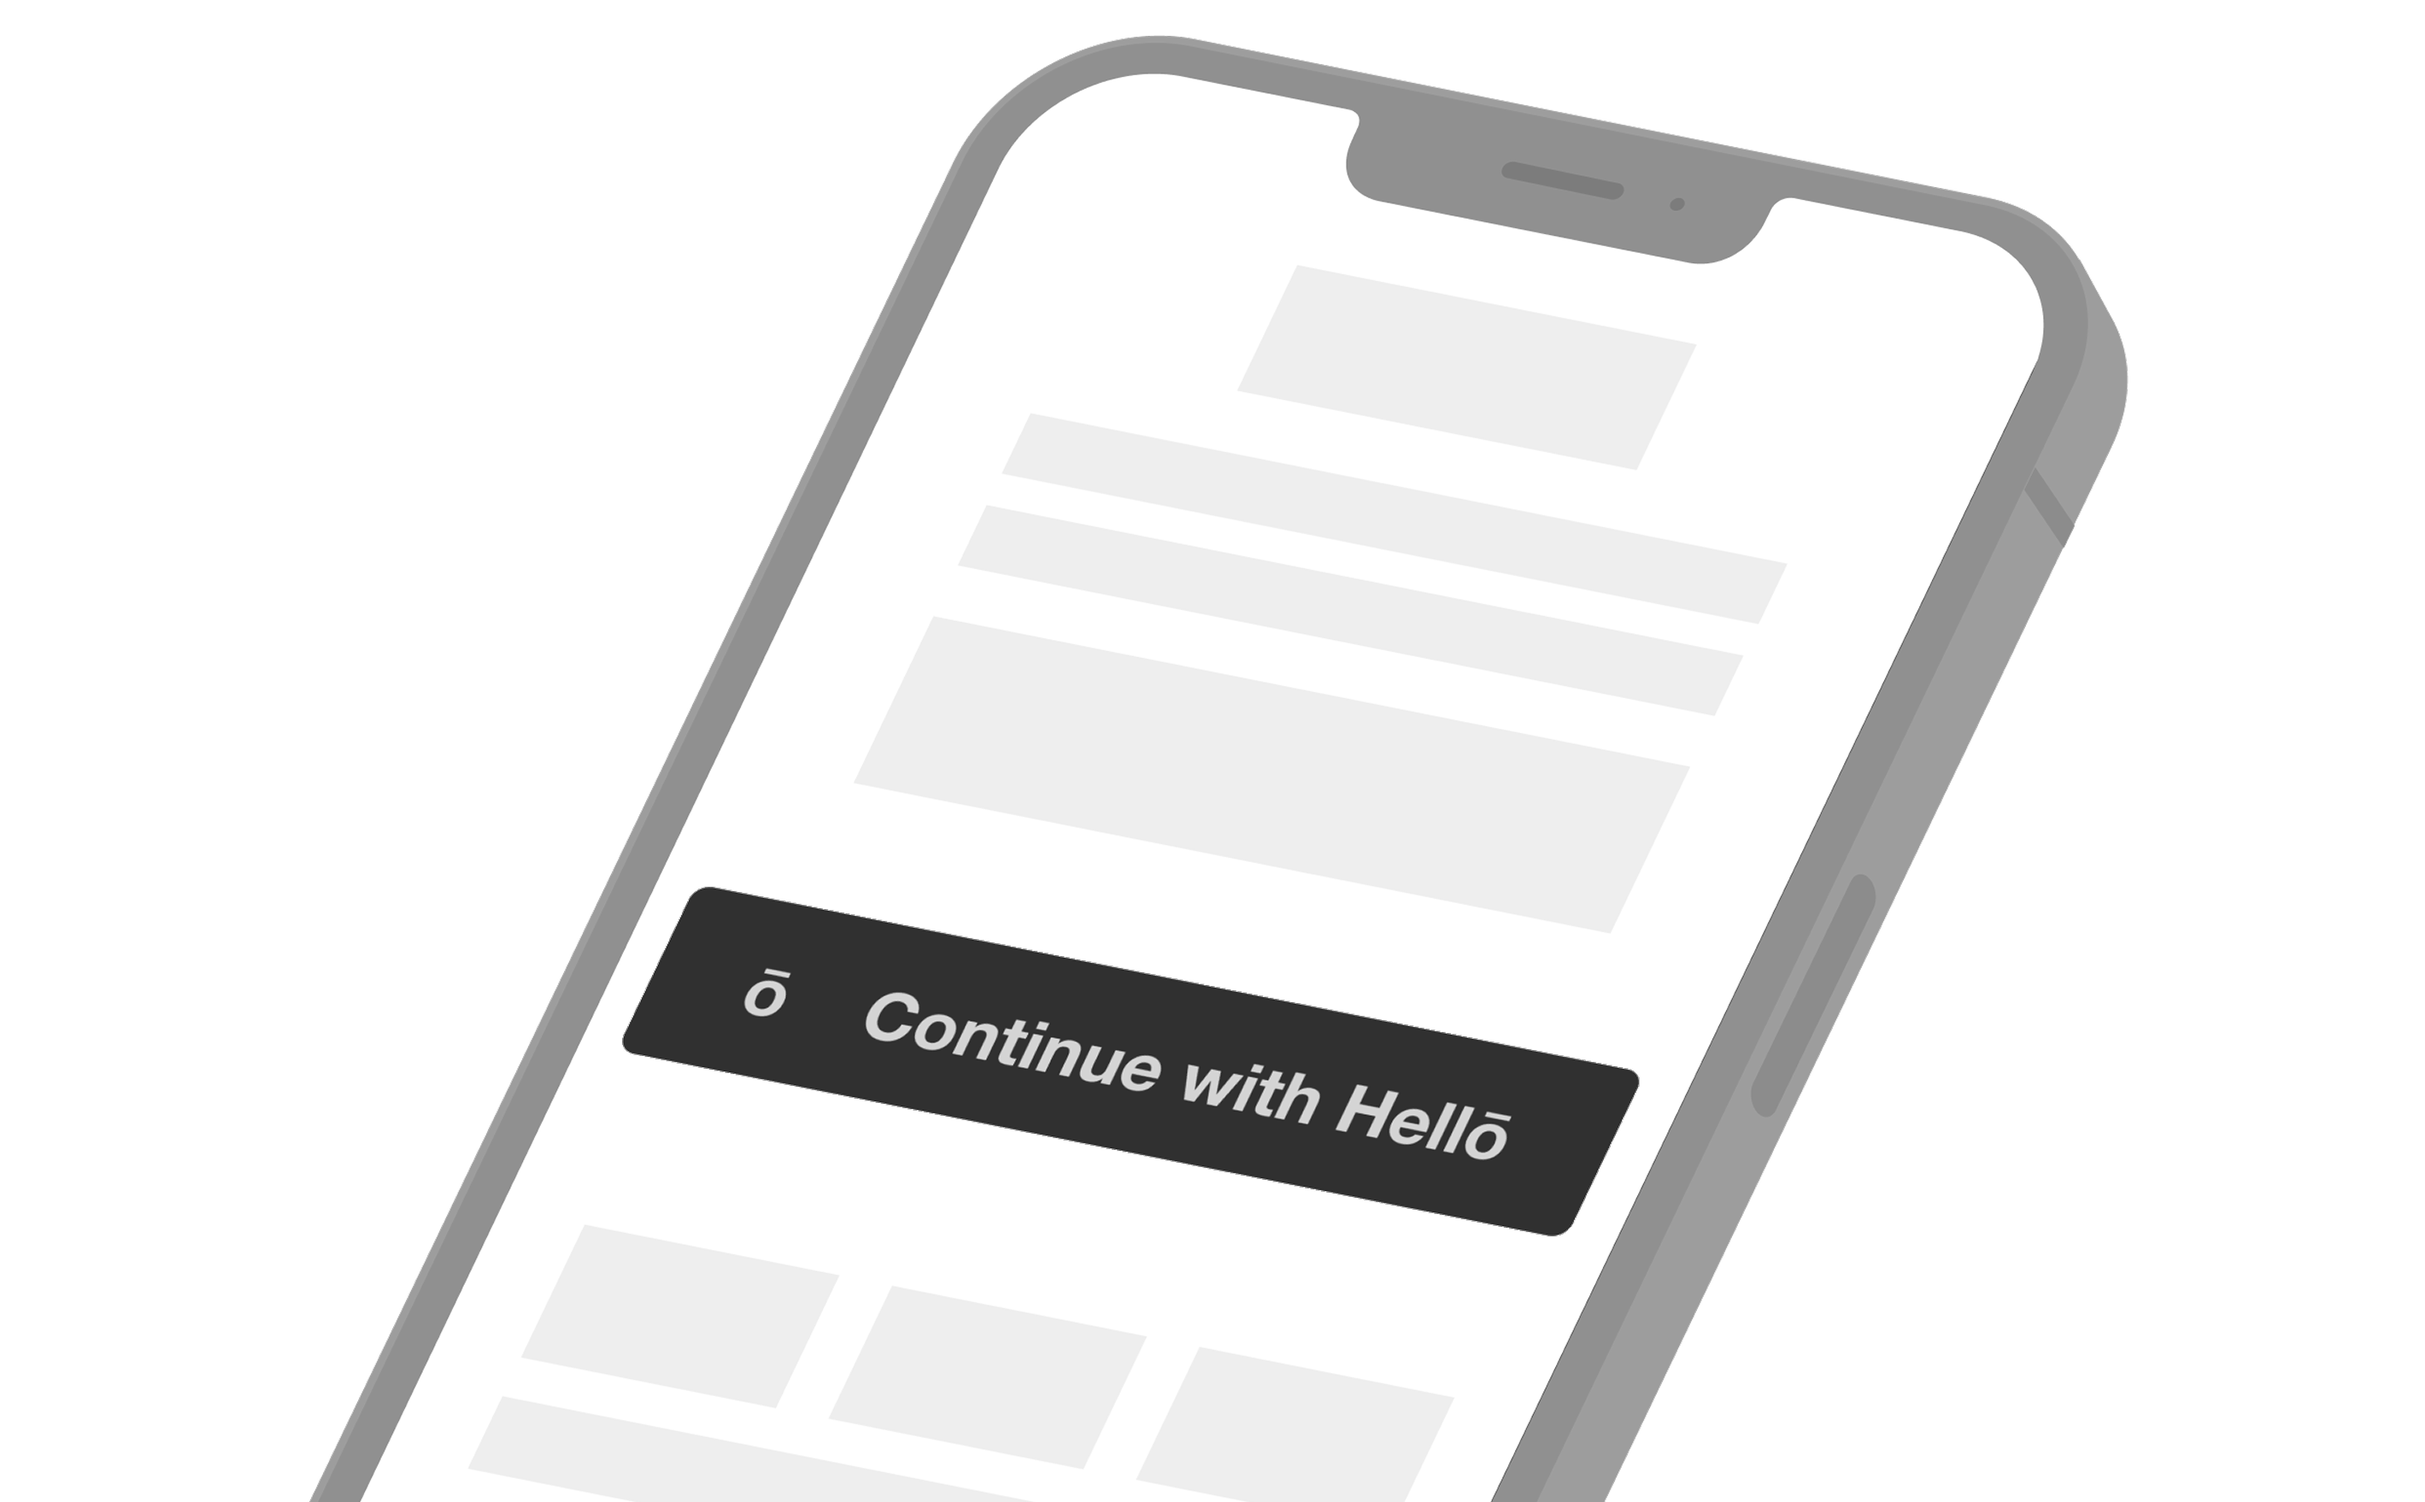
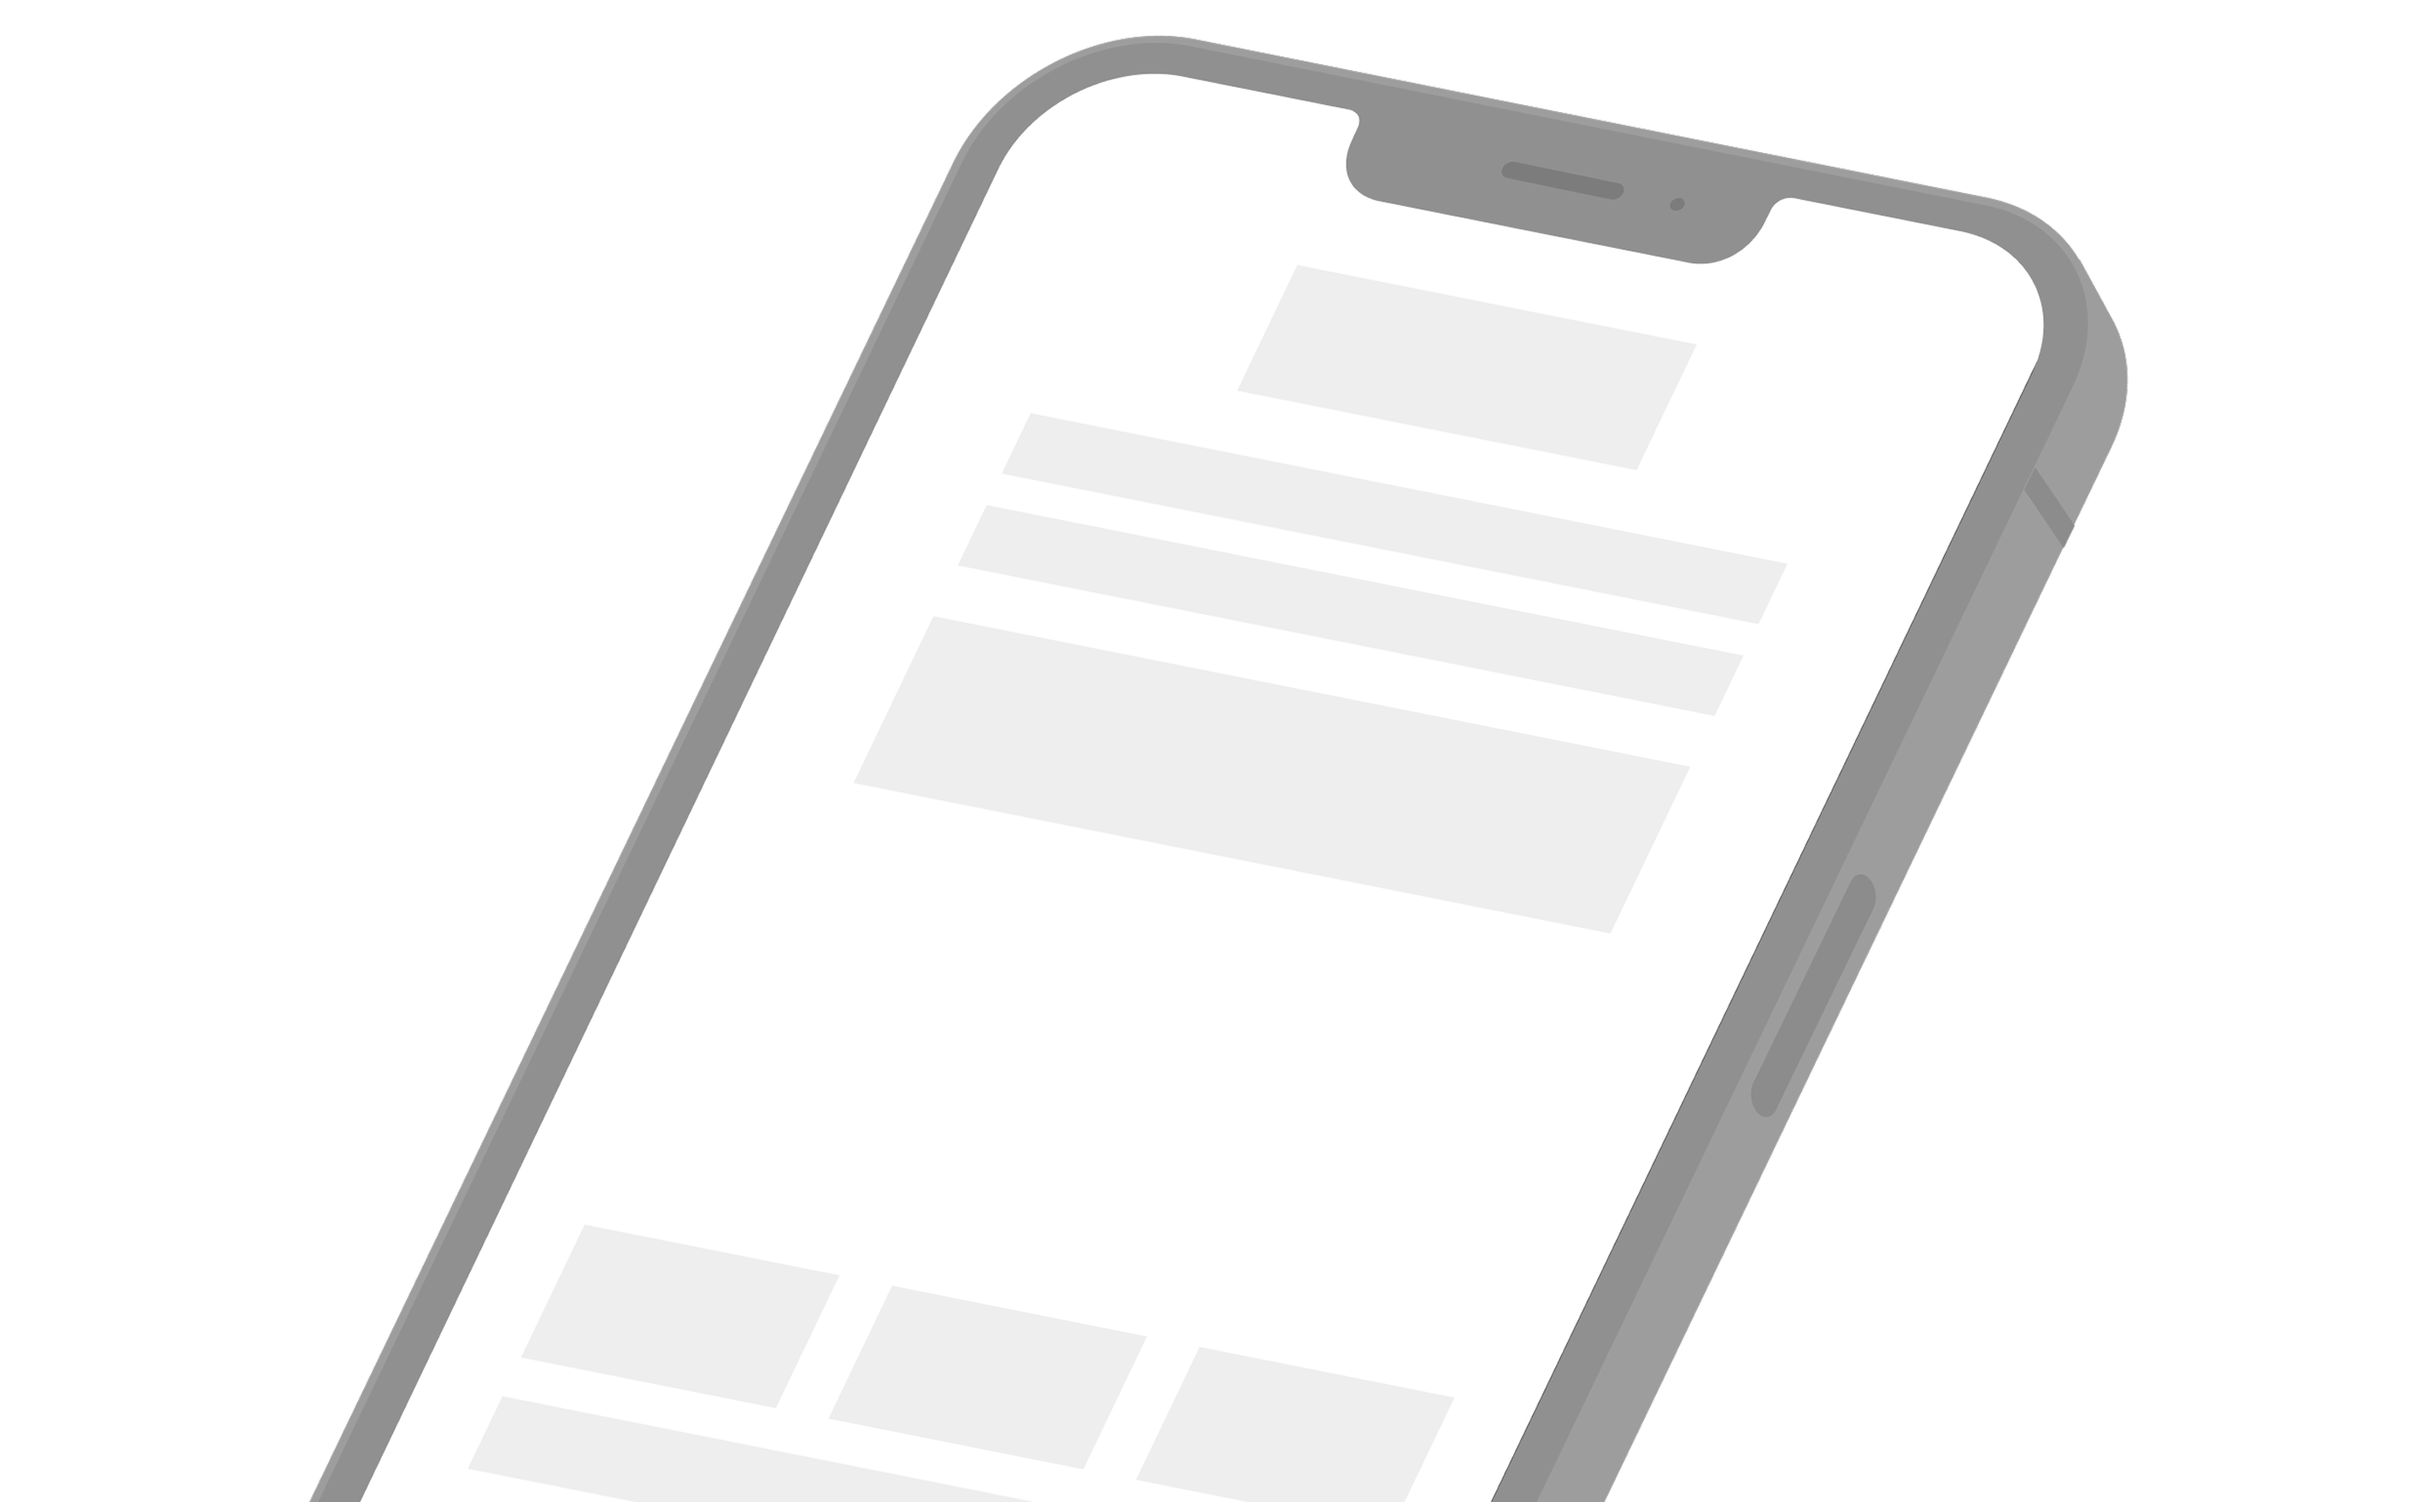
Add shine effect to button overlay and update styles
- Introduced a shine effect for the button overlay in the hero section to enhance visual appeal.
- Updated global CSS with new classes for shine animation and pointer events.
- Modified the hero image container and button overlay structure in the main page for better responsiveness and styling.
- Added new image assets for dark and light button states.

Changed region(s): [[0.2481, 0.5836, 0.6822, 0.8294]]

diff --git a/app/page.js b/app/page.js
@@ -42,13 +42,27 @@ export default function Home() {
             <section className="max-w-6xl mx-auto px-4 md:py-0">
                 <h1 className="text-[9.75vw] xl:text-[120px] font-bold -ml-1 relative z-10 pt-4 sm:pt-0 md:-mb-6 -mt-0 md:-mt-6">
                     Hellō&nbsp;&nbsp;<span className="text-charcoal/50 dark:text-gray/50 text-[13vw] xl:text-[159px]">[</span> Free SSO <span className="text-charcoal/50 dark:text-gray/50 text-[13vw] xl:text-[159px]">]</span></h1>
-                <div className="hero-img relative overflow-hidden pt-2 sm:pt-0 md:ml-32">
-                    <button onClick={handleConfetti} className="cursor-pointer w-1/2 left-[20%] h-[25%] opacity-0 absolute z-20 bottom-[11.5%]" style={{ animation: "float 5s infinite" }}>Testing</button>
+                <div className="hero-img relative max-w-[400px] mx-auto md:max-w-[600px]">
                     <picture>
                         <source srcSet="/hero-dark.png" media="(prefers-color-scheme: dark)" />
-                        <img src="/hero-light.png" alt="phone with continue with hello button"
-                            className="z-10 h-auto max-h-[600px] w-auto -mb-4 md:-mb-12" style={{ animation: "float 5s infinite" }} />
+                        <img src="/hero-light.png" alt="phone mockup" className="w-full h-auto" />
                     </picture>
+
+                    {/* Button overlay container */}
+                    <div className="absolute top-[59%] left-[24.95%] w-[43.5%] cursor-pointer group">
+                        <picture>
+                            <source srcSet="/hero-dark-btn.png" media="(prefers-color-scheme: dark)" />
+                            <img
+                                onClick={handleConfetti}
+                                src="/hero-light-btn.png"
+                                alt="overlay button"
+                                className="w-full h-auto"
+                            />
+                        </picture>
+
+                        {/* Shine overlay */}
+                        <div className="shine-overlay"></div>
+                    </div>
                 </div>
                 <h2 className="text-2xl sm:text-[3.95vw] xl:text-[49px] font-semibold relative z-10 -mb-6 sm:-mb-0">
                     Goodbye SSO tax.<br className="sm:hidden" /> Hyperscale security for all.
@@ -71,33 +85,33 @@ export default function Home() {
             <section className="max-w-6xl mx-auto mt-16 md:mt-20 space-y-16 md:space-y-20">
                 <div className="px-4">
                     <h1 className="text-[1.35rem] md:text-5xl font-semibold">Free Social Login for B2C Apps</h1>
-                    <HelloB2BSSO showTitle={false}/>
+                    <HelloB2BSSO showTitle={false} />
                 </div>
 
                 <div className="px-4">
                     <h1 className="text-[1.35rem] md:text-5xl font-semibold">
                         Free Enterprise SSO for B2B Apps
                     </h1>
-                    <HelloB2CSSO showTitle={false}/>
+                    <HelloB2CSSO showTitle={false} />
                 </div>
 
                 <div id="hello-lifecycle" className="px-4 scroll-mt-6">
                     <h1 className="text-[1.35rem] md:text-5xl font-semibold">
                         Hellō Lifecycle
                     </h1>
-                    <HelloLifecycle showTitle={false}/>
+                    <HelloLifecycle showTitle={false} />
                 </div>
 
                 <div id="github-offboarding" className="px-4 scroll-mt-6">
                     <h1 className="text-[1.35rem] md:text-5xl font-semibold">
                         GitHub Offboarding
                     </h1>
-                    <GitHubOffboarding showTitle={false}/>
+                    <GitHubOffboarding showTitle={false} />
                 </div>
 
                 <div className="px-4">
                     <h1 className="text-[1.35rem] md:text-5xl font-semibold">Zero Config Agentic Coding</h1>
-                    <CodingPlatforms showTitle={false}/>
+                    <CodingPlatforms showTitle={false} />
                 </div>
             </section>
 

diff --git a/app/globals.css b/app/globals.css
@@ -227,3 +227,42 @@ article main h1 {
         border: 1px solid #808080 !important;
     }
 }
+
+/* Container for shine (does NOT change layout) */
+.shine-pointer-events {
+    pointer-events: none;
+    overflow: hidden; /* ensures shine stays inside PNG shape */
+  }
+  
+  /* The moving shine band */
+  .shine-glint {
+    position: absolute;
+    top: -100%;
+    left: -100%;
+    width: 200%;
+    height: 300%;
+    transform: rotate(30deg);
+    background: linear-gradient(
+      115deg,
+      rgba(255, 255, 255, 0) 40%,
+      rgba(255, 255, 255, 0.35) 50%,
+      rgba(255, 255, 255, 0) 60%
+    );
+    mix-blend-mode: screen; /* Key: only brighten opaque areas */
+    animation: shineMove 1s ease-out forwards;
+    opacity: 0;
+  }
+  
+  .group:hover .shine-glint {
+    opacity: 1;
+    animation: shineMove 0.9s ease-out forwards;
+  }
+  
+  @keyframes shineMove {
+    0% {
+      transform: translateX(-150%) rotate(30deg);
+    }
+    100% {
+      transform: translateX(150%) rotate(30deg);
+    }
+  }
